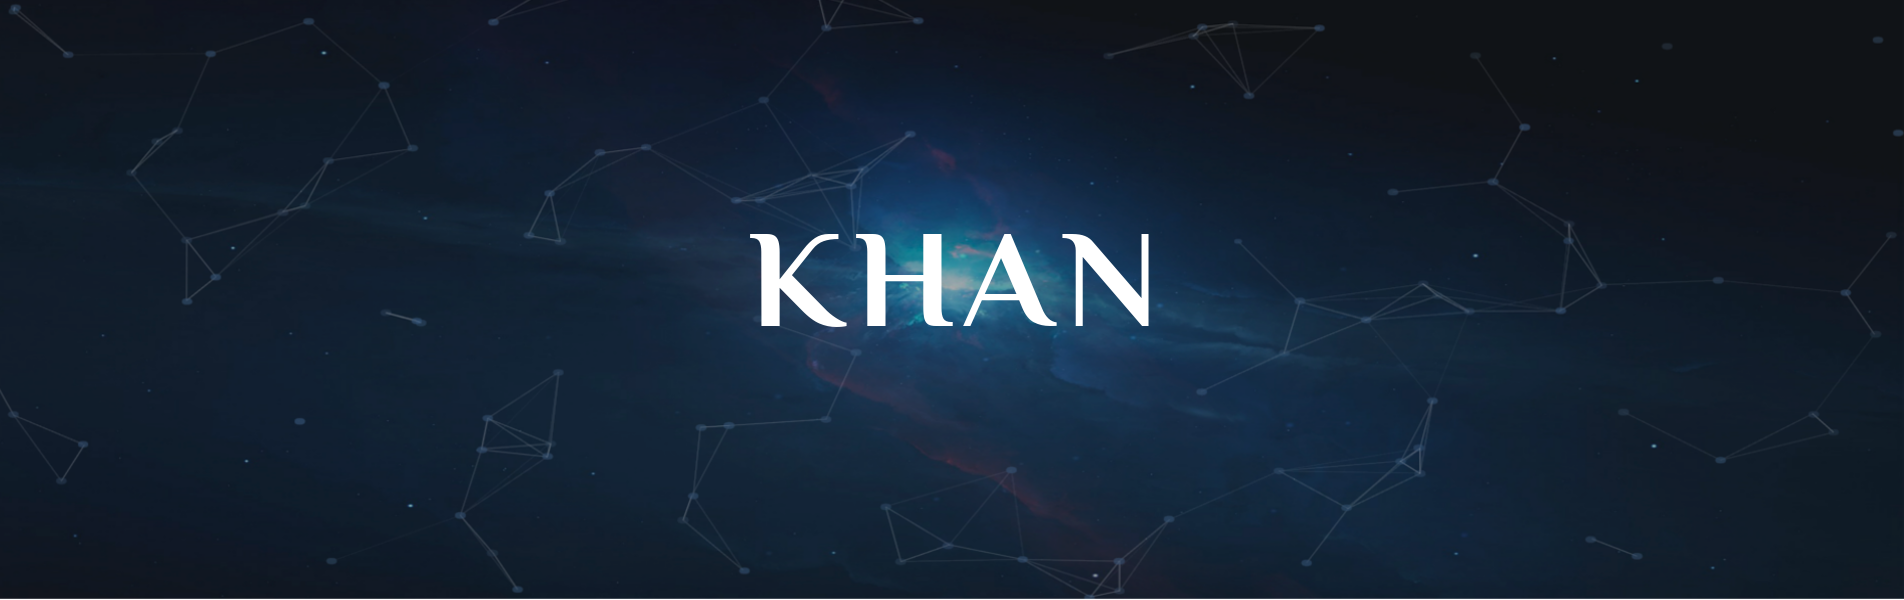
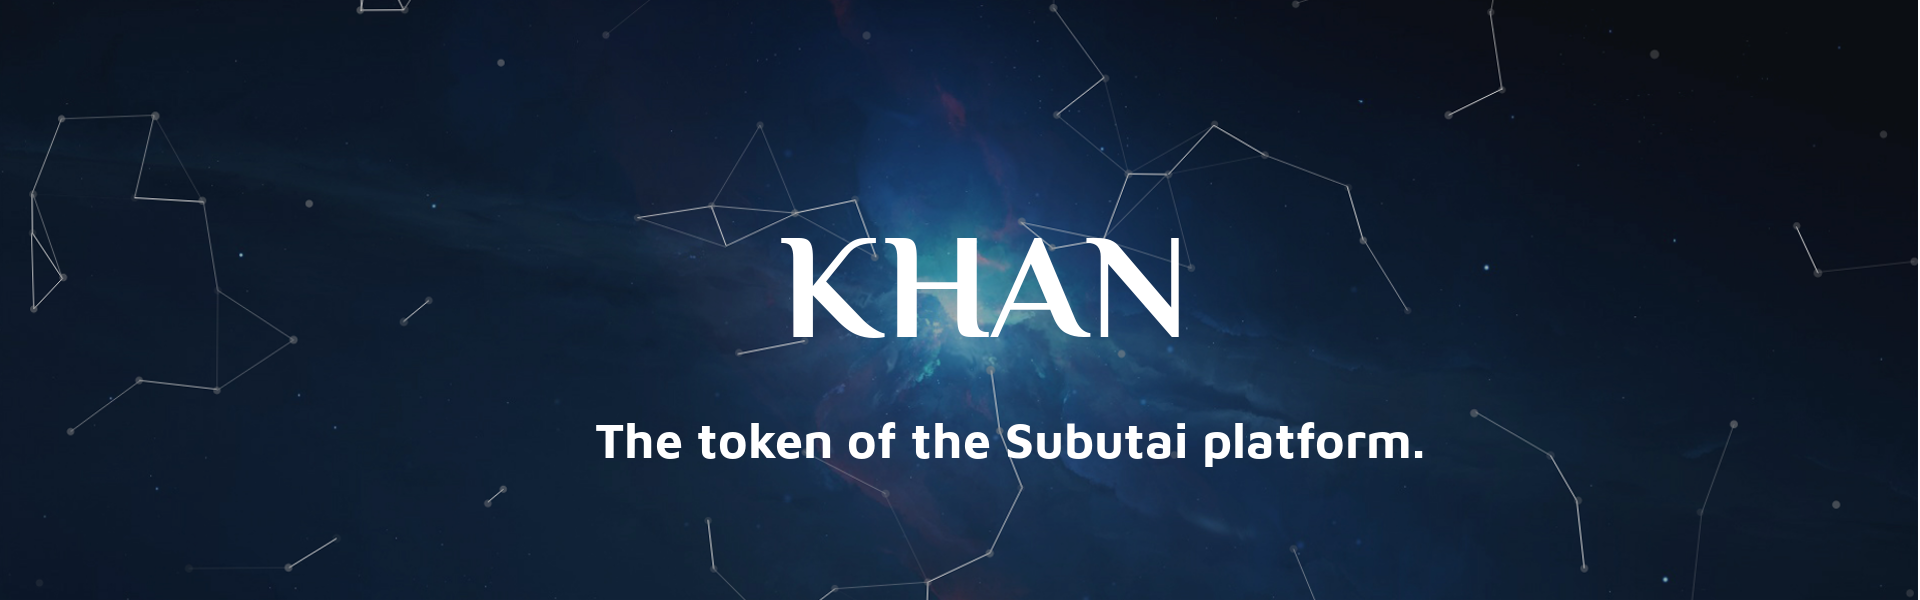
alteration in carousel

diff --git a/index.html b/index.html
@@ -120,48 +120,16 @@
 			    <div class="item active">
 			      <div class="item">
 					  <img src="img/peers.png" alt="img" class="img-responsive">
-						  <div class="carousel-caption">
-						  	<div class="box1">
-						    	<h3>Peer OS</h3>
-						    </div>
-						    <div class="box2">
-						    	<p>Open Source, container-based P2P Cloud and IoT software and firmware.</p>
-						    </div>
-						  </div>
 					</div>
 			    </div>
 			    <div class="item">
 			      <img src="img/bazaar.png" alt="img" class="img-responsive">
-	    			<div class="carousel-caption">
-					  	<div class="box1">
-					    	<h3>Subutai Baazar</h3>
-					    </div>
-					    <div class="box2">
-					    	<p>A marketplace for devices, cloud applications, and computer resources.</p>
-					    </div>
-					</div>
 			    </div>
 			    <div class="item">
 			      <img src="img/router.png" alt="img" class="img-responsive">
-	    			<div class="carousel-caption">
-						<div class="box1">
-					    	<h3>Blockchain Router</h3>
-					    </div>
-					    <div class="box2">
-					    	<p>Open hardware, “Green” token mining router, NAS, and IoT gateway.</p>
-					    </div>
-					</div>
 			    </div>
 			    <div class="item">
 			      <img src="img/khan.png" alt="img" class="img-responsive">
-	    			<div class="carousel-caption">
-						<div class="box1">
-					    	<h3>Khan</h3>
-					    </div>
-					    <div class="box2">
-					    	<p>The token of the Subutai platform.</p>
-					    </div>
-					</div>
 			    </div>
 			  </div>
 

diff --git a/css/styles.css b/css/styles.css
@@ -87,34 +87,6 @@ section .carousel-inner .img-responsive{
 	width: 100%;
 }
 
-section .carousel-inner .box1{
-	height: 50px;
-	width: 50%;
-	background-color: #04192b;
-	text-align: center;
-
-}
-
-section .carousel-inner .box1 h3{
-	padding-top: 10px;
-	text-align: center;
-	font-weight: 700;
-}
-
-section .carousel-inner .box2{
-	height: 67px;
-	width: 100%;
-	background-color: #078DD0;
-	text-align: center;
-}
-
-section .carousel-inner .box2 p{
-	padding-top: 15px;
-	text-align: center;
-	font-size: 18px;
-}
-
-
 /*CSS Section 2 - GoodWill*/
 section .cont-part3{
 	background-color: #fff;
@@ -308,35 +280,6 @@ footer .cont-footer .icons-cont-footer i{
 
 /*CSS responsive*/
 
-@media (max-width: 480px){
-
-	section .carousel-inner .box1{
-		height: 40px;
-		width: 100%;
-		background-color: #04192b;
-		text-align: center;
-	}
-
-	section .carousel-inner .box1 h3{
-		padding-top: 10px;
-		text-align: center;
-		font-weight: 0;
-		font-size: 20px;
-	}
-
-	section .carousel-inner .box2{
-		height: 80px;
-		width: 100%;
-	}
-
-	section .carousel-inner .box2 p{
-		padding-top: 10px;
-		text-align: center;
-		padding-bottom: 10px;
-		font-size: 14px;
-	}
-}
-
 @media (max-width: 768px) { 
 	/*Navbar*/
 	.navbar-header{
@@ -475,7 +418,7 @@ footer .cont-footer .icons-cont-footer i{
 
 @media (max-height: 880px) and (max-width: 580px){
 	section .carousel-inner .img-responsive{
-		height: 200px;
+		height: auto;
 		width: 100%;
 	}
 	header {
